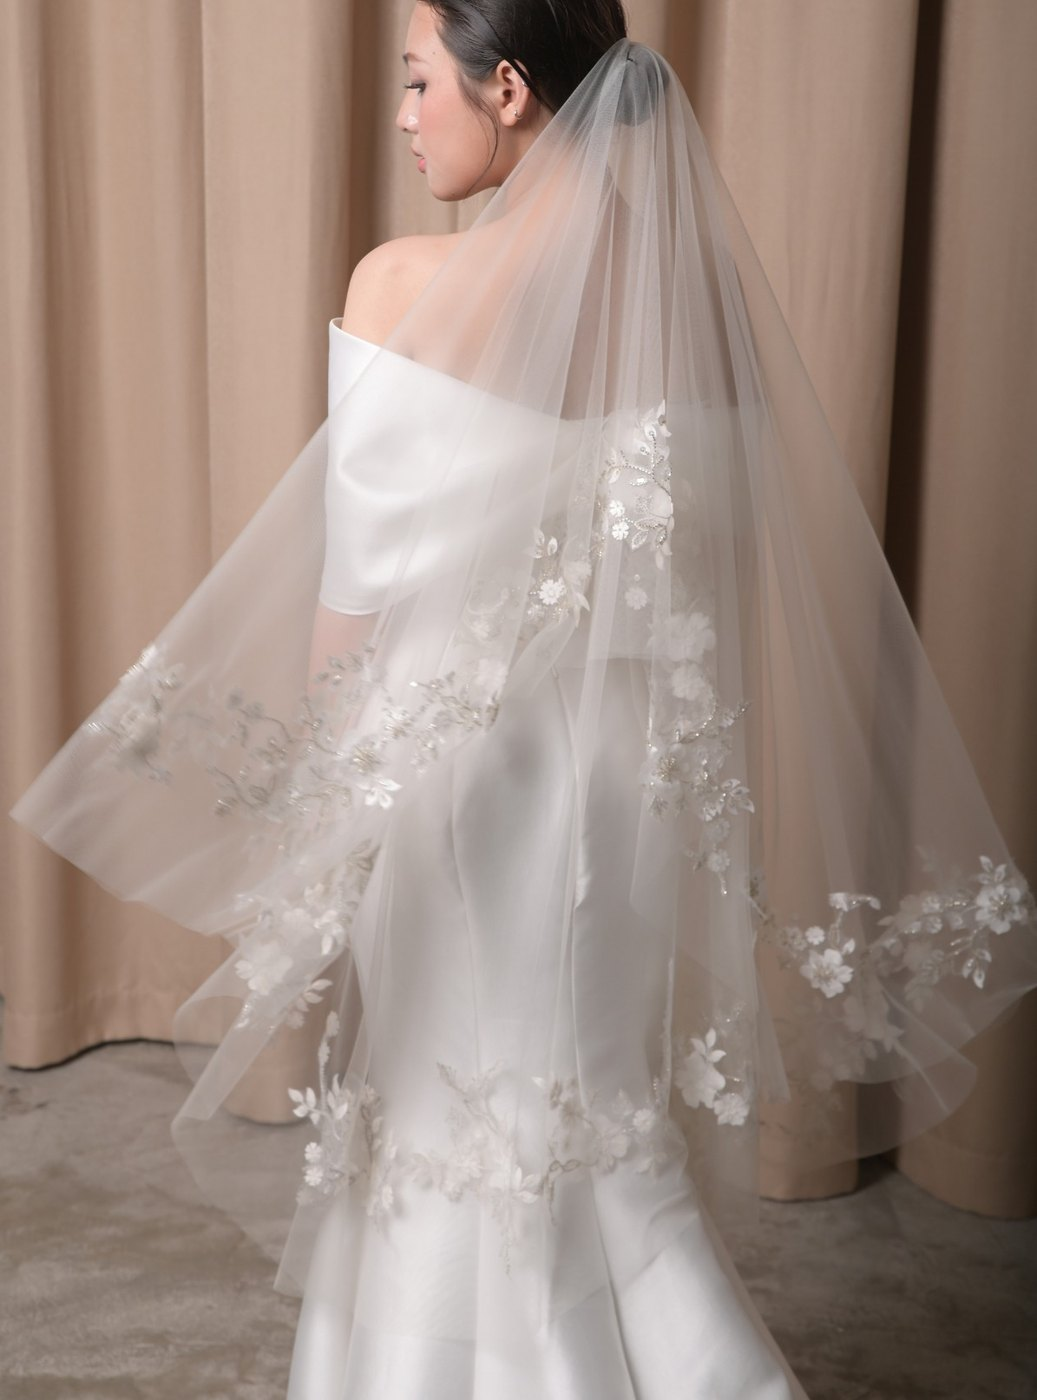
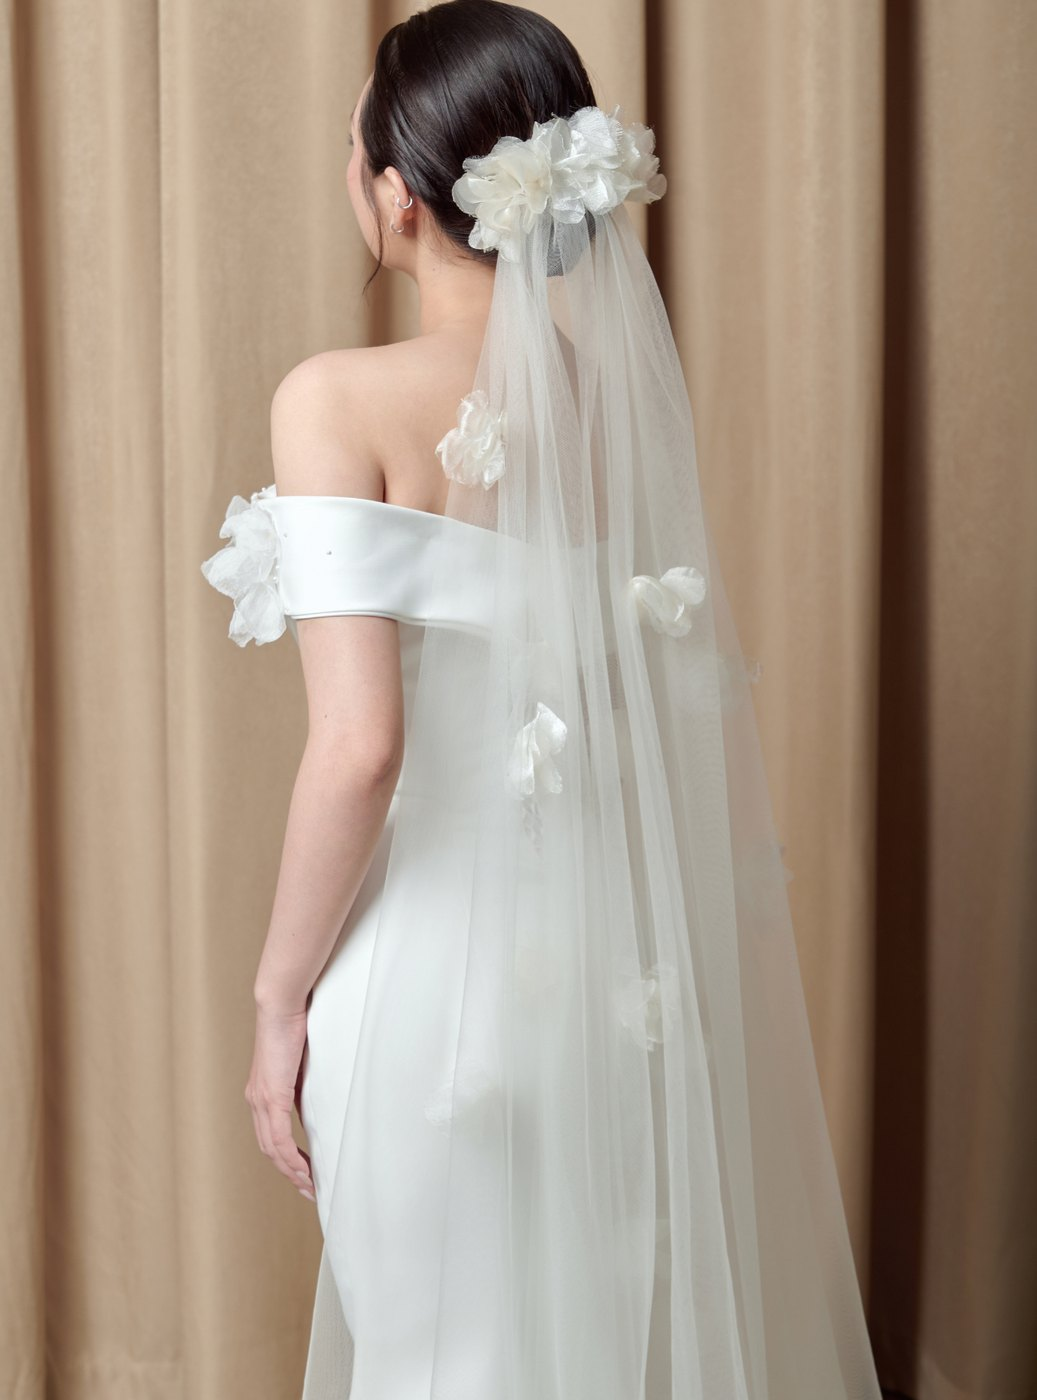
Veil guide: đổi chỗ ảnh Fingertip (20) và Waltz (23)

diff --git a/veil-guide.html b/veil-guide.html
@@ -9,7 +9,7 @@
 <meta property="og:type" content="article">
 <meta property="og:title" content="The Bride's Veil Guide | Dolinhanh Bridal">
 <meta property="og:description" content="Bạn hợp với kiểu voan nào? Cẩm nang chọn voan cưới theo độ dài, chất liệu, dáng váy và phong cách cô dâu.">
-<meta property="og:image" content="https://dolinhanhbridal.com/anh/voan/hero-d.jpg?v=09131749">
+<meta property="og:image" content="https://dolinhanhbridal.com/anh/voan/hero-d.jpg?v=09131755">
 <meta property="og:locale" content="vi_VN">
 <meta name="theme-color" content="#FBFAF8">
 <link rel="icon" href="favicon.png">
@@ -17,13 +17,13 @@
 <link rel="preconnect" href="https://fonts.googleapis.com">
 <link rel="preconnect" href="https://fonts.gstatic.com" crossorigin>
 <link href="https://fonts.googleapis.com/css2?family=Playfair+Display:ital,wght@0,400;0,500;1,400&family=Montserrat:wght@300;400;500&display=swap" rel="stylesheet">
-<link rel="preload" as="image" href="anh/voan/hero-d.jpg?v=09131749">
+<link rel="preload" as="image" href="anh/voan/hero-d.jpg?v=09131755">
 
 <script type="application/ld+json">
 {"@context":"https://schema.org","@type":"Article",
 "headline":"Bạn hợp với kiểu voan nào? — The Bride's Veil Guide",
 "description":"Cẩm nang chọn voan cưới theo độ dài, chất liệu, dáng váy và phong cách cô dâu.",
-"image":"https://dolinhanhbridal.com/anh/voan/hero-d.jpg?v=09131749",
+"image":"https://dolinhanhbridal.com/anh/voan/hero-d.jpg?v=09131755",
 "author":{"@type":"Organization","name":"Dolinhanh Bridal"},
 "publisher":{"@type":"Organization","name":"Dolinhanh Bridal","logo":{"@type":"ImageObject","url":"https://dolinhanhbridal.com/logo-dolinhanh.png"}},
 "mainEntityOfPage":"https://dolinhanhbridal.com/veil-guide.html"}
@@ -434,7 +434,7 @@ footer a:hover{color:#fff}
 <header class="hero" id="hero">
   <div class="hero-bg" id="heroBg">
     <picture>
-      <img src="anh/voan/hero-d.jpg?v=09131749" alt="Cô dâu Dolinhanh Bridal với voan ngọc trai dài" fetchpriority="high">
+      <img src="anh/voan/hero-d.jpg?v=09131755" alt="Cô dâu Dolinhanh Bridal với voan ngọc trai dài" fetchpriority="high">
     </picture>
   </div>
   <a class="hero-mark" href="https://dolinhanhbridal.com/">Dolinhanh Bridal</a>
@@ -468,7 +468,7 @@ footer a:hover{color:#fff}
         </ul>
       </div>
       <div class="rise" data-d="2"><div class="ph" style="aspect-ratio:4/5">
-        <img src="anh/voan/intro.jpg?v=09131749" alt="Cô dâu Dolinhanh Bridal váy ren, voan cài hoa nhìn ra cửa sổ" loading="lazy" decoding="async">
+        <img src="anh/voan/intro.jpg?v=09131755" alt="Cô dâu Dolinhanh Bridal váy ren, voan cài hoa nhìn ra cửa sổ" loading="lazy" decoding="async">
       </div></div>
     </div>
     <div class="pull rise">
@@ -493,7 +493,7 @@ footer a:hover{color:#fff}
   <div class="dai-track" id="daiTrack">
 
     <article class="card rise">
-      <div class="ph"><img src="anh/voan/len-01-blusher.jpg?v=09131749" alt="Voan blusher phủ mặt cô dâu" loading="lazy" decoding="async"></div>
+      <div class="ph"><img src="anh/voan/len-01-blusher.jpg?v=09131755" alt="Voan blusher phủ mặt cô dâu" loading="lazy" decoding="async"></div>
       <p class="no">01</p>
       <h3>Blusher</h3>
       <p class="mood">Classic. Intimate. Cinematic.</p>
@@ -505,7 +505,7 @@ footer a:hover{color:#fff}
     </article>
 
     <article class="card rise" data-d="1">
-      <div class="ph"><img src="anh/voan/len-02-fingertip.jpg?v=09131749" alt="Voan fingertip dài chạm đầu ngón tay" loading="lazy" decoding="async"></div>
+      <div class="ph"><img src="anh/voan/len-02-fingertip.jpg?v=09131755" alt="Voan fingertip dài chạm đầu ngón tay" loading="lazy" decoding="async"></div>
       <p class="no">02</p>
       <h3>Fingertip</h3>
       <p class="mood">Young. Modern. Effortless.</p>
@@ -517,7 +517,7 @@ footer a:hover{color:#fff}
     </article>
 
     <article class="card rise" data-d="2">
-      <div class="ph"><img src="anh/voan/len-03-waltz.jpg?v=09131749" alt="Voan waltz dài ngang bắp chân" loading="lazy" decoding="async"></div>
+      <div class="ph"><img src="anh/voan/len-03-waltz.jpg?v=09131755" alt="Voan waltz dài ngang bắp chân" loading="lazy" decoding="async"></div>
       <p class="no">03</p>
       <h3>Waltz</h3>
       <p class="mood">Soft. Romantic. Easy to move.</p>
@@ -529,7 +529,7 @@ footer a:hover{color:#fff}
     </article>
 
     <article class="card rise" data-d="3">
-      <div class="ph"><img src="anh/voan/len-04-chapel.jpg?v=09131749" alt="Voan chapel chạm sàn kéo nhẹ sau gót" loading="lazy" decoding="async"></div>
+      <div class="ph"><img src="anh/voan/len-04-chapel.jpg?v=09131755" alt="Voan chapel chạm sàn kéo nhẹ sau gót" loading="lazy" decoding="async"></div>
       <p class="no">04</p>
       <h3>Chapel</h3>
       <p class="mood">Elegant. Balanced. Bridal.</p>
@@ -541,7 +541,7 @@ footer a:hover{color:#fff}
     </article>
 
     <article class="card rise" data-d="4">
-      <div class="ph"><img src="anh/voan/len-05-cathedral.jpg?v=09131749" alt="Voan cathedral dài hơn 3 mét của cô dâu Dolinhanh" loading="lazy" decoding="async"></div>
+      <div class="ph"><img src="anh/voan/len-05-cathedral.jpg?v=09131755" alt="Voan cathedral dài hơn 3 mét của cô dâu Dolinhanh" loading="lazy" decoding="async"></div>
       <p class="no">05</p>
       <h3>Cathedral</h3>
       <p class="mood">Grand. Dramatic. Unforgettable.</p>
@@ -566,25 +566,25 @@ footer a:hover{color:#fff}
     </div>
     <div class="mood-g">
       <article class="mood-c rise">
-        <div class="ph"><img src="anh/voan/mood-minimal.jpg?v=09131749" alt="Cô dâu phong cách tối giản với voan mỏng" loading="lazy" decoding="async"></div>
+        <div class="ph"><img src="anh/voan/mood-minimal.jpg?v=09131755" alt="Cô dâu phong cách tối giản với voan mỏng" loading="lazy" decoding="async"></div>
         <h3>The Minimal Bride</h3>
         <p class="k">Clean. Quiet. Timeless.</p>
         <ul><li>Drop veil</li><li>Fingertip</li><li>Plain tulle</li></ul>
       </article>
       <article class="mood-c rise" data-d="1">
-        <div class="ph"><img src="anh/voan/mood-romantic.jpg?v=09131749" alt="Cô dâu lãng mạn với voan phủ đầu mềm" loading="lazy" decoding="async"></div>
+        <div class="ph"><img src="anh/voan/mood-romantic.jpg?v=09131755" alt="Cô dâu lãng mạn với voan phủ đầu mềm" loading="lazy" decoding="async"></div>
         <h3>The Romantic Bride</h3>
         <p class="k">Soft. Feminine. Dreamy.</p>
         <ul><li>Chapel</li><li>Lace veil</li><li>Blusher</li></ul>
       </article>
       <article class="mood-c rise" data-d="2">
-        <div class="ph"><img src="anh/voan/mood-editorial.jpg?v=09131749" alt="Cô dâu phong cách editorial ấn tượng" loading="lazy" decoding="async"></div>
+        <div class="ph"><img src="anh/voan/mood-editorial.jpg?v=09131755" alt="Cô dâu phong cách editorial ấn tượng" loading="lazy" decoding="async"></div>
         <h3>The Editorial Bride</h3>
         <p class="k">Statement. Dramatic. Unforgettable.</p>
         <ul><li>Cathedral</li><li data-en="Long veil">Voan cưới dài</li><li>Embellished edge</li></ul>
       </article>
       <article class="mood-c rise" data-d="3">
-        <div class="ph"><img src="anh/voan/mood-timeless.jpg?v=09131749" alt="Cô dâu cổ điển với voan cathedral" loading="lazy" decoding="async"></div>
+        <div class="ph"><img src="anh/voan/mood-timeless.jpg?v=09131755" alt="Cô dâu cổ điển với voan cathedral" loading="lazy" decoding="async"></div>
         <h3>The Timeless Bride</h3>
         <p class="k">Elegant. Refined. Never dated.</p>
         <ul><li>Cathedral</li><li>Chapel</li><li>Simple tulle</li></ul>
@@ -606,27 +606,27 @@ footer a:hover{color:#fff}
     </div>
     <div class="sil-g">
       <article class="sil-c rise">
-        <div class="ph"><img src="anh/voan/sil-aline.jpg?v=09131749" alt="Váy cưới dáng A-line" loading="lazy" decoding="async"></div>
+        <div class="ph"><img src="anh/voan/sil-aline.jpg?v=09131755" alt="Váy cưới dáng A-line" loading="lazy" decoding="async"></div>
         <h3>A-line</h3>
         <p class="rec">Fingertip / Chapel / Cathedral</p>
         <p data-en="The easiest silhouette to style — it suits almost every veil length. Choose by the feeling you want to create, not by the dress.">Dáng váy dễ chiều nhất — gần như hợp mọi độ dài voan. Hãy chọn theo cảm giác bạn muốn tạo ra,
            không phải theo dáng váy.</p>
       </article>
       <article class="sil-c rise" data-d="1">
-        <div class="ph"><img src="anh/voan/sil-mermaid.jpg?v=09131749" alt="Váy cưới dáng đuôi cá mermaid" loading="lazy" decoding="async"></div>
+        <div class="ph"><img src="anh/voan/sil-mermaid.jpg?v=09131755" alt="Váy cưới dáng đuôi cá mermaid" loading="lazy" decoding="async"></div>
         <h3>Mermaid</h3>
         <p class="rec">Fingertip / Chapel / Cathedral</p>
         <p data-en="Lengthens the body line and balances the fishtail. A long veil falling straight softens a fitted dress.">Tạo đường kéo dài cơ thể và cân bằng phần đuôi cá. Voan dài rủ thẳng giúp dáng váy
            ôm trở nên mềm hơn.</p>
       </article>
       <article class="sil-c rise" data-d="2">
-        <div class="ph"><img src="anh/voan/sil-ballgown.jpg?v=09131749" alt="Váy cưới dáng ballgown tùng xòe" loading="lazy" decoding="async"></div>
+        <div class="ph"><img src="anh/voan/sil-ballgown.jpg?v=09131755" alt="Váy cưới dáng ballgown tùng xòe" loading="lazy" decoding="async"></div>
         <h3>Ballgown</h3>
         <p class="rec">Chapel / Cathedral</p>
         <p data-en="Bridal, grand and in proportion with the volume of the skirt. A short veil gets swallowed by the gown.">Tạo cảm giác bridal, grand và cân đối với volume của váy. Voan ngắn dễ bị tùng váy “nuốt mất”.</p>
       </article>
       <article class="sil-c rise" data-d="3">
-        <div class="ph"><img src="anh/voan/sil-sheath.jpg?v=09131749" alt="Váy cưới dáng suông sheath column" loading="lazy" decoding="async"></div>
+        <div class="ph"><img src="anh/voan/sil-sheath.jpg?v=09131755" alt="Váy cưới dáng suông sheath column" loading="lazy" decoding="async"></div>
         <h3>Sheath / Column</h3>
         <p class="rec" data-en="Drop veil / Fingertip / Slim cathedral">Drop veil / Fingertip / Cathedral mảnh</p>
         <p data-en="Keeps the clean line of the dress. One soft layer of tulle close to the body is enough — the less structure, the better.">Giữ nguyên đường thẳng của váy. Một lớp tulle mềm rủ sát người là đủ — càng ít cấu trúc càng đẹp.</p>
@@ -634,7 +634,7 @@ footer a:hover{color:#fff}
     </div>
 
     <div class="sil-wide rise">
-      <div class="ph"><img src="anh/voan/sil-minimal.jpg?v=09131749" alt="Váy cưới satin tối giản Dolinhanh Bridal" loading="lazy" decoding="async"></div>
+      <div class="ph"><img src="anh/voan/sil-minimal.jpg?v=09131755" alt="Váy cưới satin tối giản Dolinhanh Bridal" loading="lazy" decoding="async"></div>
       <div class="tx">
         <p class="lab" data-en="A special case">Trường hợp đặc biệt</p>
         <h3 class="h-md en" style="margin:.4em 0 .5em">Minimal dress</h3>
@@ -660,32 +660,32 @@ footer a:hover{color:#fff}
     </div>
     <div class="fab-g">
       <article class="fab-c rise">
-        <img src="anh/voan/fab-tulle.jpg?v=09131749" alt="Voan tulle trơn mềm" loading="lazy" decoding="async">
+        <img src="anh/voan/fab-tulle.jpg?v=09131755" alt="Voan tulle trơn mềm" loading="lazy" decoding="async">
         <div class="tx"><h3>Plain tulle</h3><p class="k">Soft &amp; almost invisible</p>
           <p class="s" data-en="Plain tulle almost melts into the light. It never competes with the dress — it simply softens the outline of the body.">Lớp tulle trơn gần như tan vào ánh sáng. Không cạnh tranh với váy, chỉ làm mềm đường viền cơ thể.</p></div>
       </article>
       <article class="fab-c rise" data-d="1">
-        <img src="anh/voan/fab-lace.jpg?v=09131749" alt="Voan viền ren lace edge" loading="lazy" decoding="async">
+        <img src="anh/voan/fab-lace.jpg?v=09131755" alt="Voan viền ren lace edge" loading="lazy" decoding="async">
         <div class="tx"><h3>Lace edge</h3><p class="k">Romantic lace</p>
           <p class="s" data-en="Lace runs along the edge of the veil, most visible when the bride turns or when the veil pools on the floor.">Dải ren chạy dọc mép voan, hiện rõ nhất khi cô dâu quay người hoặc khi voan đổ xuống sàn.</p></div>
       </article>
       <article class="fab-c rise" data-d="2">
-        <img src="anh/voan/fab-pearl.jpg?v=09131749" alt="Voan đính ngọc trai" loading="lazy" decoding="async">
+        <img src="anh/voan/fab-pearl.jpg?v=09131755" alt="Voan đính ngọc trai" loading="lazy" decoding="async">
         <div class="tx"><h3>Pearl</h3><p class="k">Quiet sparkle</p>
           <p class="s" data-en="Pearls scattered lightly over tulle — a soft glow that never glares, lovely for indoor receptions.">Ngọc trai rải thưa trên nền tulle — sáng nhẹ, không bắt đèn gắt, rất hợp tiệc trong nhà.</p></div>
       </article>
       <article class="fab-c rise" data-d="3">
-        <img src="anh/voan/fab-crystal.jpg?v=09131749" alt="Voan và thân váy đính pha lê" loading="lazy" decoding="async">
+        <img src="anh/voan/fab-crystal.jpg?v=09131755" alt="Voan và thân váy đính pha lê" loading="lazy" decoding="async">
         <div class="tx"><h3>Crystal</h3><p class="k">Light that moves</p>
           <p class="s" data-en="Hand-set crystals catch the light with every step. Made for evening receptions and light-filled venues.">Pha lê đính tay bắt sáng theo từng bước đi. Dành cho tiệc tối và không gian nhiều đèn.</p></div>
       </article>
       <article class="fab-c rise" data-d="4">
-        <img src="anh/voan/fab-flower.jpg?v=09131749" alt="Voan đính hoa nổi 3D" loading="lazy" decoding="async">
+        <img src="anh/voan/fab-flower.jpg?v=09131755" alt="Voan đính hoa nổi 3D" loading="lazy" decoding="async">
         <div class="tx"><h3>3D flower</h3><p class="k">Couture statement</p>
           <p class="s" data-en="Fabric flowers raised on the veil. Best with a dress minimal enough to give them room.">Hoa vải đính nổi trên voan. Chỉ nên đi cùng một chiếc váy đủ tối giản để nhường chỗ.</p></div>
       </article>
       <article class="fab-c rise" data-d="4">
-        <img src="anh/voan/fab-embroidery.jpg?v=09131749" alt="Voan thêu tay hoa văn" loading="lazy" decoding="async">
+        <img src="anh/voan/fab-embroidery.jpg?v=09131755" alt="Voan thêu tay hoa văn" loading="lazy" decoding="async">
         <div class="tx"><h3>Embroidery</h3><p class="k">Hand-drawn detail</p>
           <p class="s" data-en="Embroidery drifting through the tulle — a mist from afar, every stitch revealed up close.">Hoa văn thêu chạy trong lòng voan — nhìn xa là một lớp sương, nhìn gần mới thấy từng nét.</p></div>
       </article>
@@ -702,11 +702,11 @@ footer a:hover{color:#fff}
     </div>
     <div class="test-g">
       <figure class="rise">
-        <div class="ph"><img src="anh/voan/test-pin.jpg?v=09131749" alt="Cô dâu với voan ren cathedral trải dài trên cỏ — kiểu ảnh tham khảo trên Pinterest" loading="lazy" decoding="async"></div>
+        <div class="ph"><img src="anh/voan/test-pin.jpg?v=09131755" alt="Cô dâu với voan ren cathedral trải dài trên cỏ — kiểu ảnh tham khảo trên Pinterest" loading="lazy" decoding="async"></div>
         <figcaption class="test-cap"><b data-en="Reference">Ảnh tham khảo</b><span>Pinterest</span></figcaption>
       </figure>
       <figure class="rise" data-d="1">
-        <div class="ph"><img src="anh/voan/test-that.jpg?v=09131749" alt="Cô dâu thật Dolinhanh Bridal với voan ren dài trong sân vườn" loading="lazy" decoding="async"></div>
+        <div class="ph"><img src="anh/voan/test-that.jpg?v=09131755" alt="Cô dâu thật Dolinhanh Bridal với voan ren dài trong sân vườn" loading="lazy" decoding="async"></div>
         <figcaption class="test-cap"><b data-en="Real bride">Cô dâu thật</b><span data-en="Dolinhanh bride">Cô dâu Dolinhanh</span></figcaption>
       </figure>
     </div>
@@ -810,17 +810,17 @@ footer a:hover{color:#fff}
     </div>
     <div class="steps">
       <article class="step rise">
-        <div class="ph"><img src="anh/voan/buoc-01.jpg?v=09131749" alt="Bắt đầu buổi thử váy riêng tại Dolinhanh Bridal" loading="lazy" decoding="async"></div>
+        <div class="ph"><img src="anh/voan/buoc-01.jpg?v=09131755" alt="Bắt đầu buổi thử váy riêng tại Dolinhanh Bridal" loading="lazy" decoding="async"></div>
         <p class="no">01</p><h3>Come in</h3>
         <p data-en="A private appointment, never shared with other clients. Tell us about your wedding, the venue and the feeling you want.">Một buổi hẹn riêng, không trùng khách. Bạn kể về lễ cưới, không gian, và cảm giác bạn muốn có.</p>
       </article>
       <article class="step rise" data-d="1">
-        <div class="ph"><img src="anh/voan/buoc-02.jpg?v=09131749" alt="Cô dâu thử váy cưới cùng stylist" loading="lazy" decoding="async"></div>
+        <div class="ph"><img src="anh/voan/buoc-02.jpg?v=09131755" alt="Cô dâu thử váy cưới cùng stylist" loading="lazy" decoding="async"></div>
         <p class="no">02</p><h3>Try on</h3>
         <p data-en="Dress first, veil second. Your stylist tries different veil lengths and fabrics on the very dress you choose.">Thử váy trước, voan sau. Stylist thử nhiều độ dài và chất liệu voan trên đúng chiếc váy bạn chọn.</p>
       </article>
       <article class="step rise" data-d="2">
-        <div class="ph"><img src="anh/voan/buoc-03.jpg?v=09131749" alt="Tổng thể váy cưới và voan hoàn chỉnh" loading="lazy" decoding="async"></div>
+        <div class="ph"><img src="anh/voan/buoc-03.jpg?v=09131755" alt="Tổng thể váy cưới và voan hoàn chỉnh" loading="lazy" decoding="async"></div>
         <p class="no">03</p><h3>Find your look</h3>
         <p data-en="Settle the whole look: dress, veil, hair, accessories. You see yourself in the mirror — not in a photo.">Chốt tổng thể: váy, voan, tóc, phụ kiện. Bạn nhìn thấy chính mình trong gương — không phải trong một tấm ảnh.</p>
       </article>
@@ -831,7 +831,7 @@ footer a:hover{color:#fff}
 <!-- ══ 10. CHỐT ══ -->
 <section class="conv" id="chot">
   <div class="conv-bg" id="convBg">
-    <img src="anh/voan/conv-band.jpg?v=09131749" alt="Cô dâu Dolinhanh Bridal mặc váy cưới đính hạt với voan ngọc trai" loading="lazy" decoding="async">
+    <img src="anh/voan/conv-band.jpg?v=09131755" alt="Cô dâu Dolinhanh Bridal mặc váy cưới đính hạt với voan ngọc trai" loading="lazy" decoding="async">
   </div>
   <div class="conv-in"><div class="wrap">
     <p class="en h-lg rise">You can save a hundred Pinterest boards.<b>Or you can try it on.</b></p>
@@ -848,7 +848,7 @@ footer a:hover{color:#fff}
   <div class="wrap">
     <div class="book-g">
       <div class="rise"><div class="ph">
-        <img src="anh/voan/form-tulle.jpg?v=09131749" alt="Chất liệu tulle của voan cưới Dolinhanh" loading="lazy" decoding="async">
+        <img src="anh/voan/form-tulle.jpg?v=09131755" alt="Chất liệu tulle của voan cưới Dolinhanh" loading="lazy" decoding="async">
       </div></div>
       <div class="rise" data-d="1">
         <p class="lab">Private fitting</p>
